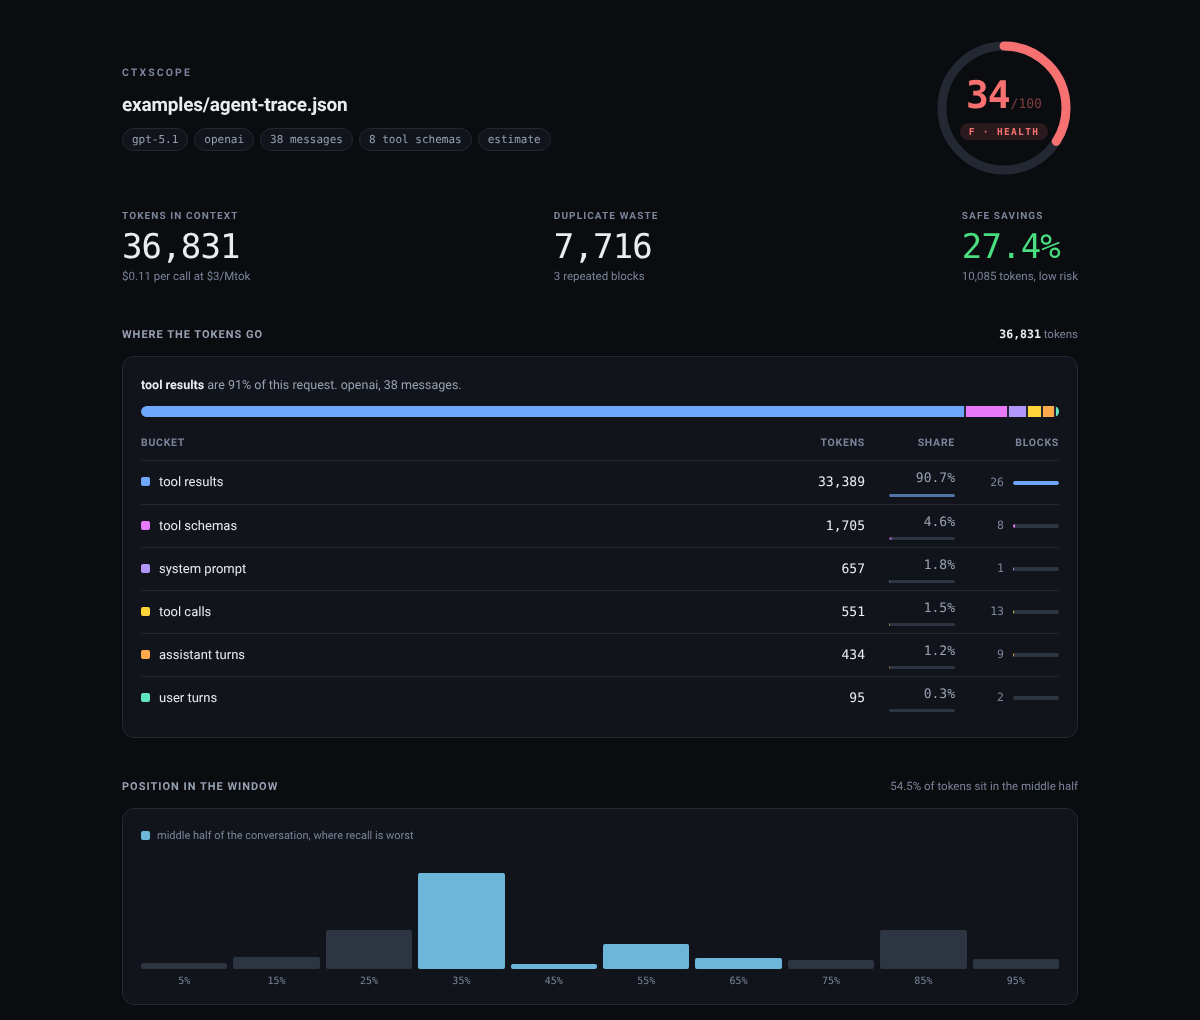
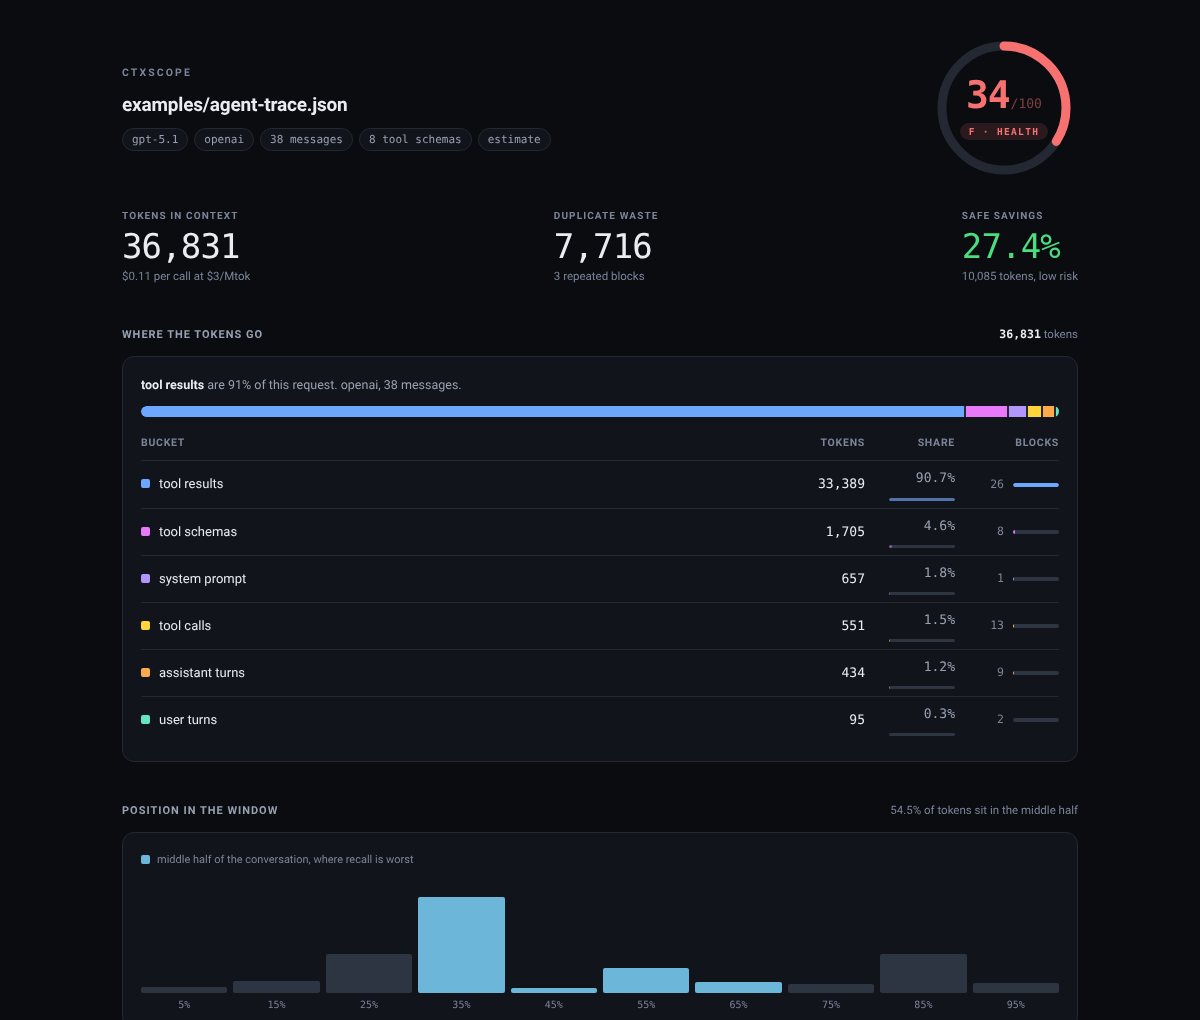
viewer: align the share column, tighten the ring on small screens

diff --git a/ctxscope.py b/ctxscope.py
@@ -1164,6 +1164,7 @@ th.c-blocks,td.c-blocks{width:104px}
 .sw{display:inline-block;width:9px;height:9px;border-radius:2px;margin-right:9px;vertical-align:0}
 .track3{height:3px;border-radius:2px;background:var(--line2);margin-top:5px;overflow:hidden;width:100%}
 .track3 i{display:block;height:100%;border-radius:2px}
+.sharecell{display:flex;flex-direction:column;justify-content:center;align-items:flex-end;gap:4px}
 
 .legend{display:flex;align-items:center;gap:7px;font-size:11px;color:var(--faint);margin-bottom:10px}
 .legend .box{width:9px;height:9px;border-radius:2px;background:var(--accent);opacity:.85}
@@ -1227,6 +1228,15 @@ button:hover{border-color:var(--faint)}
 #drop.on{display:flex}
 #drop .box{border:1px dashed var(--line2);border-radius:14px;padding:42px 52px;text-align:center;background:var(--panel)}
 
+@media (max-width:480px){
+  .ring{width:84px;height:84px}
+  .ring svg{width:84px;height:84px}
+  .ring .n{font-size:23px}
+  .ring .of{font-size:9.5px}
+  .ring .gchip{font-size:7.5px;padding:3px 5px;letter-spacing:.06em}
+  .hero-stats{gap:10px}
+  .stat .v{font-size:17px}
+}
 @media (max-width:760px){
   header{grid-template-columns:auto 1fr;gap:18px;align-items:center}
   .ring{width:96px;height:96px;order:-1}
@@ -1654,8 +1664,8 @@ function render(d){
     '<colgroup><col><col class="c-tokens"><col class="c-share"><col class="c-blocks"></colgroup>'+
     '<tr><th>Bucket</th><th class="n c-tokens">Tokens</th><th class="n c-share">Share</th><th class="n c-blocks">Blocks</th></tr>' +
     d.kinds.map(k=>'<tr><td><span class="sw" style="background:'+varOf(k.kind)+'"></span>'+esc(k.label)+
-      '</td><td class="n c-tokens mono">'+fmt(k.tokens)+'</td><td class="n c-share"><div class="mono" style="color:var(--muted)">'+k.pct.toFixed(1)+'%</div>'+
-      '<div class="track3"><i style="width:'+Math.round(100*k.tokens/maxKind)+'%;background:'+varOf(k.kind)+';opacity:.55"></i></div>'+
+      '</td><td class="n c-tokens mono">'+fmt(k.tokens)+'</td><td class="n c-share"><div class="sharecell"><div class="mono" style="color:var(--muted)">'+k.pct.toFixed(1)+'%</div>'+
+      '<div class="track3"><i style="width:'+Math.round(100*k.tokens/maxKind)+'%;background:'+varOf(k.kind)+';opacity:.55"></i></div></div>'+
       '</td><td class="n c-blocks"><span class="bars"><span class="mono" style="color:var(--faint);font-size:11.5px;min-width:2ch;text-align:right">'+k.blocks+'</span><span class="track"><i style="width:'+Math.round(100*k.tokens/maxKind)+'%;background:'+varOf(k.kind)+'"></i></span></span></td></tr>').join("");
 
   const posMax = Math.max(...d.positional,1);
